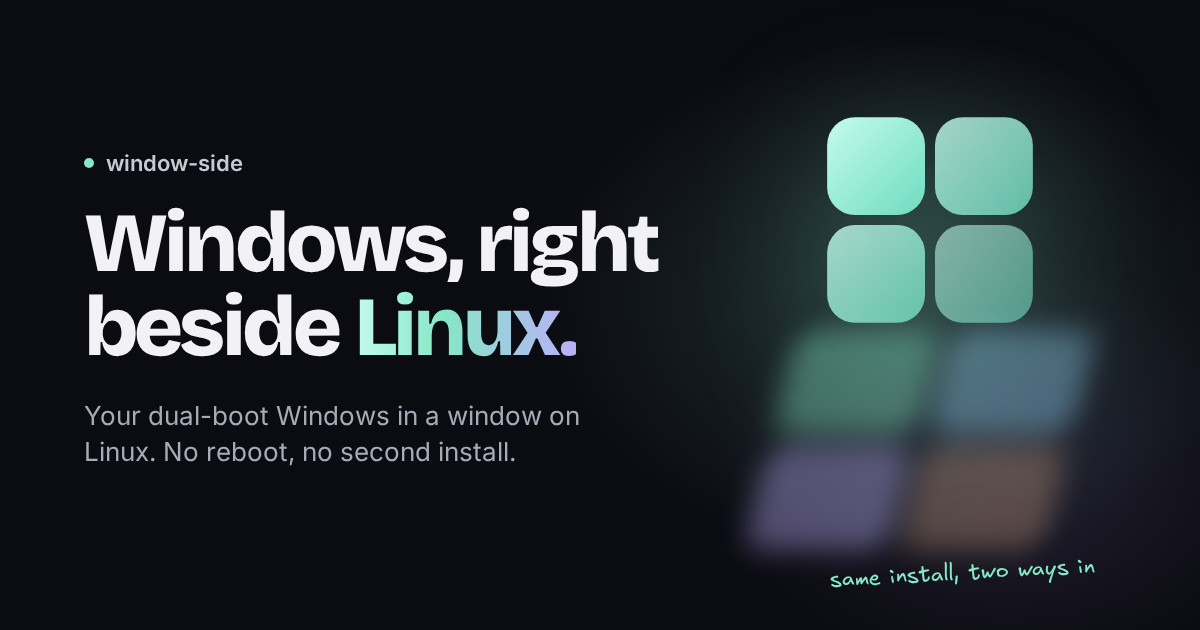
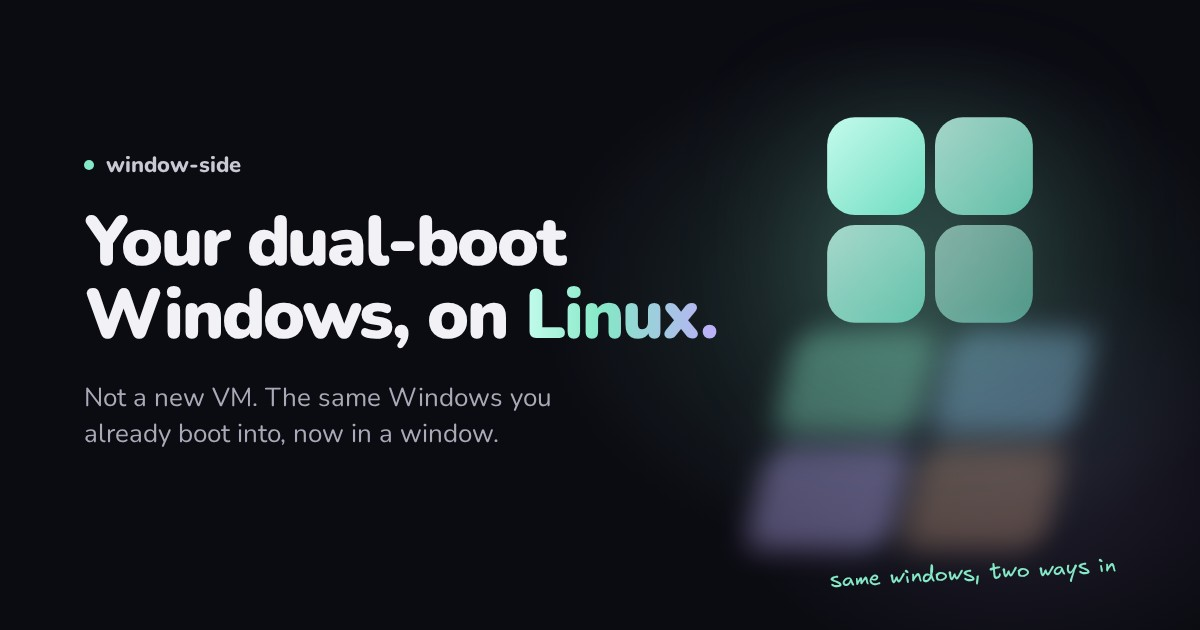
Say plainly that window-side opens your own dual-boot Windows
The page and README kept describing the same idea several ways, and never
said outright that this is the Windows you already boot into.

- Hero: "Your dual-boot Windows, on Linux." with "Not a new VM. The same
  Windows you already boot into, now in a window."
- Shorter section copy throughout, dropping repeats and detail the scenes
  already show.
- The wall scene ends on "the same windows, two ways in".
- The share image and page metadata use the new heading.

diff --git a/site/index.html b/site/index.html
@@ -5,15 +5,15 @@
     <meta name="viewport" content="width=device-width, initial-scale=1, viewport-fit=cover" />
     <meta name="theme-color" content="#0b0b12" />
     <meta name="color-scheme" content="dark" />
-    <meta name="description" content="window-side runs the Windows already on your dual-boot drive as a virtual machine inside Linux, or boots it natively. One install, one set of apps and files." />
-    <meta property="og:title" content="window-side · Windows, right beside Linux" />
-    <meta property="og:description" content="Your dual-boot Windows, running in a window on Linux. No reboot, no second install." />
+    <meta name="description" content="For dual-boot PCs: open the Windows you already boot into in a window on Linux. Same apps, same files, no second copy." />
+    <meta property="og:title" content="window-side · Your dual-boot Windows, beside Linux" />
+    <meta property="og:description" content="The same Windows you boot into, now in a window on Linux. No reboot, no second copy." />
     <meta property="og:image" content="https://window-side.allpyq.in/og.jpg" />
     <meta property="og:url" content="https://window-side.allpyq.in/" />
     <link rel="canonical" href="https://window-side.allpyq.in/" />
     <meta name="twitter:card" content="summary_large_image" />
     <link rel="icon" href="/favicon.svg" type="image/svg+xml" />
-    <title>window-side · Windows, right beside Linux</title>
+    <title>window-side · Your dual-boot Windows, beside Linux</title>
     <script>
       document.documentElement.classList.add("js");
     </script>
@@ -30,7 +30,7 @@
       .hero-backdrop{position:absolute;inset:0;z-index:-3;background:radial-gradient(50% 40% at 50% 18%,#bcaef914,transparent 70%),radial-gradient(60% 50% at 50% 78%,#85e8c60e,transparent 70%)}
       .hero-backdrop,.hero-canvas{-webkit-mask-image:linear-gradient(#000 55%,transparent);mask-image:linear-gradient(#000 55%,transparent)}
 .hero-canvas{position:absolute;inset:0;z-index:-2;width:100%;height:100%;opacity:0;transition:opacity 1.6s ease}.hero-canvas.is-live{opacity:1}
-      .hero-inner{position:relative;width:min(100%,880px);display:grid;grid-template-columns:minmax(0,1fr);justify-items:center}
+      .hero-inner{position:relative;width:min(100%,960px);display:grid;grid-template-columns:minmax(0,1fr);justify-items:center}
       .mark{display:block;overflow:visible}
       .hero .mark{width:clamp(96px,13vw,132px);height:auto;filter:drop-shadow(0 18px 50px #85e8c640)}
       .mark .pane{transform-box:fill-box;transform-origin:50% 50%}
@@ -76,8 +76,8 @@
         <canvas class="hero-canvas" data-light aria-hidden="true"></canvas>
         <div class="hero-inner">
           <!--mark:hero-mark-->
-          <h1>Windows, right<br />beside <span class="glow">Linux.</span></h1>
-          <p class="lede">Run the Windows already on your dual-boot drive in a window on Linux, with your real GPU, signed in and ready. Boot it natively whenever you like.</p>
+          <h1>Your dual-boot<br />Windows, on <span class="glow">Linux.</span></h1>
+          <p class="lede">Not a new VM. The same Windows you already boot into, now in a window.</p>
           <div class="getcard">
             <div class="get-row">
               <code data-command><b>$ </b>curl -fsSL https://raw.githubusercontent.com/Noelithub77/window-side/main/get.sh | bash</code>
@@ -98,7 +98,7 @@
           <div class="section-head center" data-reveal>
             <p class="kicker"><span>01</span> Why</p>
             <h2>Dual boot is a wall.</h2>
-            <p>Your Windows apps sit behind a reboot. A fresh VM means two copies of everything. window-side runs the Windows you already have, right beside Linux.</p>
+            <p>Switching means a reboot. A fresh VM means a second Windows to set up. window-side opens the one you have.</p>
           </div>
           <figure class="scene scene-wide" data-scene="wall" aria-label="Rebooting between Linux and Windows, then a second Windows in a VM, then window-side running the one install both ways">
             <svg aria-hidden="true"></svg>
@@ -112,7 +112,7 @@
           <div class="section-head center" data-reveal>
             <p class="kicker"><span>02</span> The app</p>
             <h2>One calm window.</h2>
-            <p>Start, open and stop Windows, and watch its CPU, memory, GPU and network live. Setup finds your drive and GPU and asks for your password once.</p>
+            <p>Start, stop and watch Windows live. Setup finds your drive and GPU for you.</p>
           </div>
           <div class="segmented" role="tablist" aria-label="App screen" data-reveal>
             <button type="button" role="tab" aria-selected="true" data-video="overview" data-focus="20% 0">Overview</button>
@@ -133,12 +133,12 @@
             <article data-reveal>
               <div class="shot"><picture><source srcset="/media/native/tray-menu-tight.avif" type="image/avif" /><img src="/media/native/tray-menu-tight.webp" width="250" height="190" alt="The tray menu with start, open and quit" loading="lazy" decoding="async" /></picture></div>
               <h3>Tray</h3>
-              <p>Close the window; Windows keeps running.</p>
+              <p>Keeps running when you close the window.</p>
             </article>
             <article data-reveal>
               <div class="shot"><picture><source srcset="/media/native/panel-tight.avif" type="image/avif" /><img src="/media/native/panel-tight.webp" width="360" height="350" alt="The Omarchy panel with live usage and VM controls" loading="lazy" decoding="async" /></picture></div>
               <h3>Omarchy panel</h3>
-              <p>Usage and controls in your bar.</p>
+              <p>Controls in your bar.</p>
             </article>
           </div>
         </div>
@@ -149,12 +149,12 @@
           <div class="section-head center" data-reveal>
             <p class="kicker"><span>03</span> GPU passthrough</p>
             <h2>Your real GPU,<br />in a window.</h2>
-            <p>Give your graphics card to Windows and its games and GPU apps run at near-native speed. Looking Glass shows Windows in a Linux window with almost no delay. A GPU entry in your boot menu holds the card for Windows; a normal boot gives it back to Linux.</p>
+            <p>Windows gets your graphics card, so games run at near full speed, shown in a Linux window by Looking Glass. A normal boot gives the card back.</p>
           </div>
           <figure class="scene" data-scene="gpu" aria-label="Windows draws on the passed-through GPU, and Looking Glass copies each frame into a window on your Linux desktop">
             <svg aria-hidden="true"></svg>
           </figure>
-          <p class="footnote" data-reveal>Looking Glass is an open-source project by <a href="https://github.com/gnif/LookingGlass">Geoffrey McRae and contributors</a>. window-side sets it up and opens it for you.</p>
+          <p class="footnote" data-reveal>Looking Glass is by <a href="https://github.com/gnif/LookingGlass">Geoffrey McRae and contributors</a>.</p>
         </div>
       </section>
 
@@ -163,7 +163,7 @@
           <div class="section-head center" data-reveal>
             <p class="kicker"><span>04</span> Sign-in</p>
             <h2>Signed in<br />before you look.</h2>
-            <p>Save your Windows password once. It stays in your Linux keyring, and window-side types it into Windows whenever it starts, so the desktop is ready when you open it.</p>
+            <p>Save your password once in your Linux keyring. window-side types it in when Windows starts.</p>
           </div>
           <figure class="scene" data-scene="signin" aria-label="The password moves from the Linux keyring to the VM keyboard, and Windows opens signed in">
             <svg aria-hidden="true"></svg>
@@ -177,7 +177,7 @@
           <div class="section-head center" data-reveal>
             <p class="kicker"><span>05</span> For developers</p>
             <h2>Test Windows apps<br />from Linux.</h2>
-            <p>Shell into your real Windows with key-only SSH or PowerShell. Copy builds in, run tests and installers, pull logs out, all as JSON. Bundled skills teach your coding agent to do it for you.</p>
+            <p>SSH or PowerShell into Windows, copy builds in, pull logs out, all as JSON. Built-in skills show your coding agent how.</p>
           </div>
           <div class="agents">
             <div class="prompt" data-reveal>
@@ -210,7 +210,7 @@
           <div class="section-head center" data-reveal>
             <p class="kicker"><span>06</span> Your Linux</p>
             <h2>Made for the Linux<br />you already run.</h2>
-            <p>It uses your own package manager and fits your desktop and boot loader.</p>
+            <p>Uses your package manager, desktop and boot loader.</p>
           </div>
           <div class="hosts" data-reveal>
             <article><h3>Distros</h3><ul><li><i></i>Arch</li><li><i class="unit"></i>Ubuntu, Debian</li><li><i class="unit"></i>Fedora</li></ul></article>
@@ -224,8 +224,8 @@
       <section class="get" id="get">
         <div class="wrap get-inner">
           <!--mark:get-mark-->
-          <h2>Bring Windows closer.</h2>
-          <p class="after">One command installs the app and the packages it needs. Run it again to update.</p>
+          <h2>Open your Windows.</h2>
+          <p class="after">One command to install. Run it again to update.</p>
           <div class="getcard">
             <div class="get-row">
               <code data-command><b>$ </b>curl -fsSL https://raw.githubusercontent.com/Noelithub77/window-side/main/get.sh | bash</code>
@@ -235,7 +235,7 @@
           <p class="links"><a href="https://github.com/Noelithub77/window-side/blob/main/docs/guide.md">Guide</a><a href="https://github.com/Noelithub77/window-side/releases">Releases</a><a href="https://github.com/Noelithub77/window-side">Source</a></p>
           <a class="star" href="https://github.com/Noelithub77/window-side">
             <svg viewBox="0 0 24 24" aria-hidden="true"><path d="m12 3 2.7 5.6 6.1.8-4.5 4.2 1.1 6.1L12 16.8l-5.4 2.9 1.1-6.1-4.5-4.2 6.1-.8Z" /></svg>
-            <span>If window-side saves you a reboot, a star on GitHub helps someone else find it.</span>
+            <span>If it saves you a reboot, a star helps others find it.</span>
           </a>
         </div>
       </section>

diff --git a/site/src/scenes/wall.ts b/site/src/scenes/wall.ts
@@ -42,7 +42,7 @@ export const build: Build = (svg, narrow) => {
     appWindow(s, cx + 88, cy - 92, 132, 92, "", { stroke: ink.lavender });
     panes(s, cx + 88, cy - 84, 34);
     s.text(cx + 88, cy - 152, "or beside linux", { size: 17, color: ink.lavender });
-    s.text(cx, cy + 160, "one install,\ntwo ways in", { size: 21, color: ink.mint });
+    s.text(cx, cy + 160, "the same windows,\ntwo ways in", { size: 21, color: ink.mint });
   });
   const native = s.arrow([[cx + 40, cy + 46], [cx - 30, cy + 8], [cx - 88, cy - 54]], { stroke: ink.mint, width: 1.8 });
   const vm = s.arrow([[cx + 72, cy + 46], [cx + 82, cy + 4], [cx + 88, cy - 40]], { stroke: ink.lavender, width: 1.8 });

diff --git a/README.md b/README.md
@@ -10,7 +10,7 @@
   <a href="https://github.com/Noelithub77/window-side/stargazers"><img alt="GitHub stars" src="https://img.shields.io/github/stars/Noelithub77/window-side?style=flat&amp;color=c4fbec&amp;labelColor=101515"></a>
 </p>
 
-Run the Windows already on your dual-boot drive as a virtual machine inside Linux, and still boot it natively when you need to. One install, one set of apps and files.
+Not a new VM: the same Windows you already dual boot, now in a window on Linux. It still boots natively too.
 
 ```sh
 curl -fsSL https://raw.githubusercontent.com/Noelithub77/window-side/main/get.sh | bash
